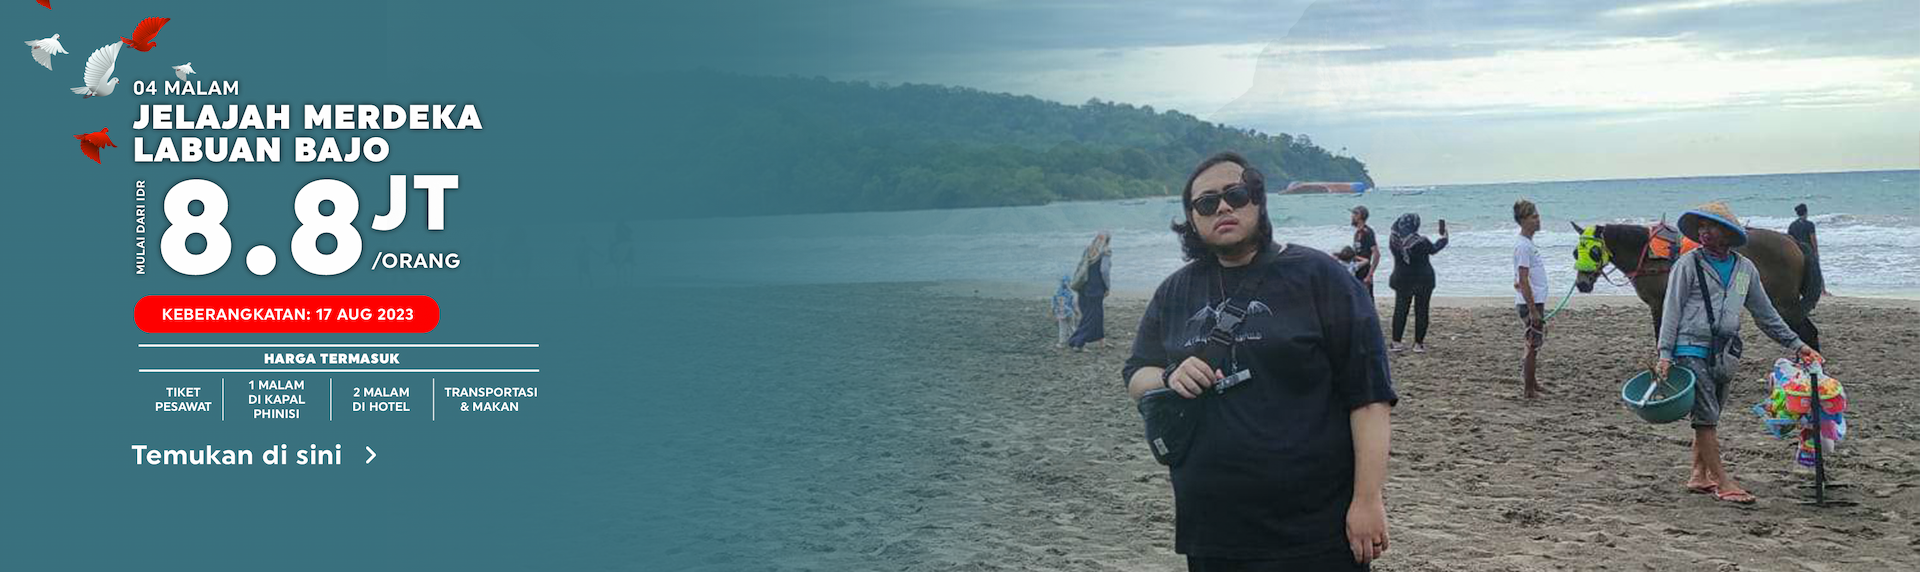
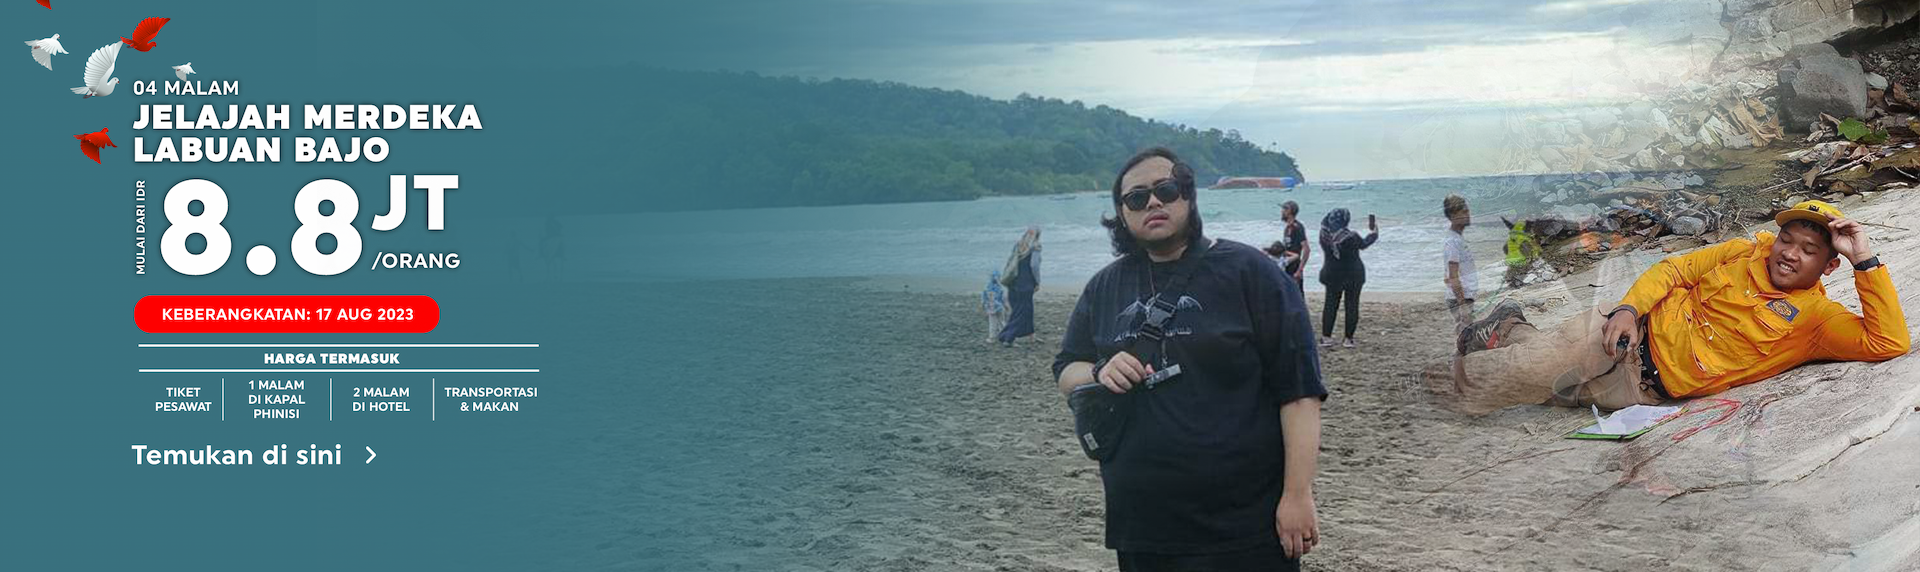
feat : last push aybe?

diff --git a/client-customer/src/views/RegisterCustomerView.jsx b/client-customer/src/views/RegisterCustomerView.jsx
@@ -1,8 +1,9 @@
 import { useState, useEffect } from "react";
 import { useDispatch } from "react-redux";
-import { useNavigate, } from "react-router-dom";
+import { useNavigate } from "react-router-dom";
 import { registerUser } from "../store/actions/actionCreator";
 import axios from "axios";
+import logo from "../assets/ngabolang.png";
 
 function RegisterCustomerView() {
   // local state
@@ -64,11 +65,10 @@ function RegisterCustomerView() {
   async function handleRegister(e) {
     e.preventDefault();
     dispatch(registerUser(form))
-    .then((result) => {
-      navigate("/login");
-    }).catch((err) => {
-      
-    });
+      .then((result) => {
+        navigate("/login");
+      })
+      .catch((err) => {});
   }
   // lifecycle
   useEffect(() => {
@@ -86,15 +86,17 @@ function RegisterCustomerView() {
             }}
           ></div>
 
-          <div className="flex items-center w-full max-w-3xl p-8 mx-auto lg:px-12 lg:w-3/5">
+          <div className="flex items-center w-full max-w-3xl p-8 mb-10 mx-auto lg:px-12 lg:w-3/5">
             <div className="w-full">
-              <h1 className="text-2xl font-semibold tracking-wider text-gray-800 capitalize dark:text-white">
-                Get your free account now.
+              <div className=" flex items-center justify-center">
+                <img src={logo} alt="" className="w-[23vh] mb-10" />
+              </div>
+              <h1 className="text-3xl font-semibold tracking-wider text-gray-800 dark:text-white">
+                Get's started your journey.
               </h1>
 
               <p className="mt-4 text-gray-500 dark:text-gray-400">
-                Let’s get you all set up so you can verify your personal account
-                and begin setting up your profile.
+                Daftarkan diri dan lengkapi profil anda untuk memulai perjalanan travelling yang tak terlupakan bersama kami!
               </p>
 
               <form>

diff --git a/client-customer/src/views/LandingPage.jsx b/client-customer/src/views/LandingPage.jsx
@@ -10,9 +10,8 @@ function LandingPage() {
   }
 
   useEffect(() => {
-    window.scrollTo(0, 0)
+    window.scrollTo(0, 0);
   }, []);
-
 
   return (
     <>
@@ -23,7 +22,12 @@ function LandingPage() {
               <h2 className="text-4xl font-bold mb-6">NGABOLANG</h2>
               <div className="mb-4 max-w-sm">
                 <p className="text-gray-600 mb-4 break-words text-xl">
-                Ngabolang memberikan wadah bagi orang-orang yang memiliki jiwa petualang dan menghubungkan mereka dengan travel agent terpercaya. Platform ini membuat perjalanan semakin menarik dengan menghubungkan para customer di suatu group dengan harapan terciptanya komunitas-komunitas travel untuk memajukan industri travel di Indonesia.
+                  Ngabolang memberikan wadah bagi orang-orang yang memiliki jiwa
+                  petualang dan menghubungkan mereka dengan travel agent
+                  terpercaya. Platform ini membuat perjalanan semakin menarik
+                  dengan menghubungkan para customer di suatu group dengan
+                  harapan terciptanya komunitas-komunitas travel untuk memajukan
+                  industri travel di Indonesia.
                 </p>
               </div>
               <div className="flex">

diff --git a/client-customer/src/views/HomeView.jsx b/client-customer/src/views/HomeView.jsx
@@ -60,7 +60,7 @@ function HomeView() {
   }
   console.log(reviews);
   useEffect(() => {
-    // window.scrollTo(0, 0);
+    window.scrollTo(0, 0);
     if (isLoading) {
       dispatch(fetchCategories());
       dispatch(fetchTrips());
@@ -87,7 +87,7 @@ function HomeView() {
   }
 
   const images = [
-    "https://media.discordapp.net/attachments/1121744763859783772/1126321148087517185/syamsul.png",
+    "https://media.discordapp.net/attachments/1121744763859783772/1126371396826714143/syamsul.png?width=2160&height=644",
     "http://www.goldenrama.com/_next/image?url=https%3A%2F%2Fprod1-api.goldenrama.com%2F%2Fuploads%2FBMG_WEB_BANNER_E_COMMERCE_04_6b8d79745c.png&w=1920&q=100",
     "http://www.goldenrama.com/_next/image?url=https%3A%2F%2Fprod1-api.goldenrama.com%2F%2Fuploads%2FGRANVIA_de89a6cc9b.png&w=1920&q=100",
     "http://www.goldenrama.com/_next/image?url=https%3A%2F%2Fprod1-api.goldenrama.com%2F%2Fuploads%2FWEB_BANNER_QANTAS_01_0e19e6abe6.png&w=1920&q=100",

diff --git a/client-customer/src/store/actions/actionCreator.js b/client-customer/src/store/actions/actionCreator.js
@@ -194,7 +194,7 @@ export const loginGoogleUser = (payload) => {
             });
             // console.log(response);
             let result = await response.json();
-            // console.log(result);
+            console.log(result);
             if (!response.ok) throw { res: response.status, result }
             localStorage.access_token = result.access_token;
             localStorage.id = result.user.id;

diff --git a/client-customer/src/views/MyTripMyAdventure.jsx b/client-customer/src/views/MyTripMyAdventure.jsx
@@ -22,7 +22,7 @@ function MyTrip() {
   }, []);
 
   return (
-    <div className="mt-20">
+    <div className="mt-20 h-[70vh]">
       {mytrips.length ? (
         <div className="py-12 flex flex-col justify-center items-center">
           {mytrips.map((el, index) => (
